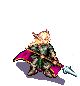
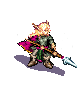
Update readme, moremirmu, halfelvish pike

Changed region(s): [[0.15, 0.2326, 0.975, 1.0]]

diff --git a/README.md b/README.md
@@ -176,21 +176,26 @@ Maybe the quest reward is automatic (just complete the scenario), or maybe there
 Quest rewards should be minor bonuses, not major rewards. Perhaps you get a bonus ability, or maybe you get the option to "trade in" your companion for some more significant bonus.
 
 ----Moremirmu
-- jolly, holy, clever warrior monk from the monestary featured in Valley of Death
-- someone who'll blast away zombies while quoting scripture (no specific religions plz; neither IRL ones nor Wesnoth ones)
+- warrior monk. Someone who'll blast away zombies while quoting scripture (no specific religions plz; neither IRL ones nor Wesnoth ones)
+"For at the end of days, the texts prophesy a great destruction, yea, the sun itself shall rain down from the heavens as sulfur and fire!"
+"And lo! The unclean shall be smitten down, and lo! There shall be eternal peace for all men."
+"But until then, ’tis up to I to do the smiting! [attacks some undead]"
 - quest: bring him to Valley of Death and do something with him there.
 
-----Harper
-- 
-
-----Allaril (the ulf)
-- hurls long strings of creative insults at his enemies
-- takes offense very, very easily 
+----Allaril:
+- high XP ulfserker. Loyal and healthy.
+- speaks in a... interesting manner. Takes offense easily.
 - ran away from Knalga when he was a child. Now the Dwarven Doors have fallen, Knalga is under siege, and he has no idea what happened to his family.
-- quest: bring him back to Knalga, and find his father's graves there. Breaks down in tears, and gains some kind of useful buff
+"C’mere and try it, ye yellow-bellied, cow-handed bluderbuss of a princess! Jus’ gimme the chance an’ I’ll rip that head right off yer ninnyhammerin’ neck, ye white-livered gasser!"
+"Come an’ git some, ye nigmenog bolting-hutch of beastliness! Ah dare ye to square up an’ fight me, dwarf-to-dwarf!"
+- quest: bring him back to Knalga, and find his father's graves there. Breaks down in tears, and gains a significant buff (drains on melee, perhaps?)
+
+----Harper
+- it's Harper
+- should we give her personality some kind of gimmick to help her stand out?  My memory on Liberty may no longer be accurate - I haven't played it since before the gender change
 
 ----Kalenz
-- 
+- it's Kalenz
 
 ----emo Chantal (at Yumi's suggestion)
 - she's determined to bring Deoran back from the dead
@@ -198,9 +203,18 @@ Quest rewards should be minor bonuses, not major rewards. Perhaps you get a bonu
 - quest: she learns to accept his death and moves on
 	- maybe 2 versions of this? If you have Kalenz he helps her move on, if you don't things end badly
 
+----Two sisters, down in the Tath area?
+--Sister 1:
+tanky half-elven halberdier, trying to get past some guards and rescue her half-sister, who's been kidnapped by bandits
+serious. Raised among humans, doesn't like being half-elven. Some interesting dialogue with Konrad (a human raised among elves).
+--Sister 2:
+it turns out she's not in trouble at all. Magically charmed the bandit and is now their queen (except Loyalists are killing all of them so you still need to get in there and save her)
+insufferable girly personality, that sort of thing. As contrasted with the much more serious other sister.
+has an magical attack which, if it hits, temporarily takes control of the target enemy (leaders/loyals/mechanicals immune)
+some kind of quest where the 2 sisters heal old wounds and become close friends?
+
 ----Other companion ideas:
 - runesmith? Perhaps this portrait, with no ears: https://forums.wesnoth.org/viewtopic.php?t=49283&start=15
-- elvish halberdier? https://units.wesnoth.org/1.14/WarOfTheGods/en_US/WOTG_Elvish%20Halberdier.html
 
 //--------------------
 // "ADVISOR" DIALOGUE
